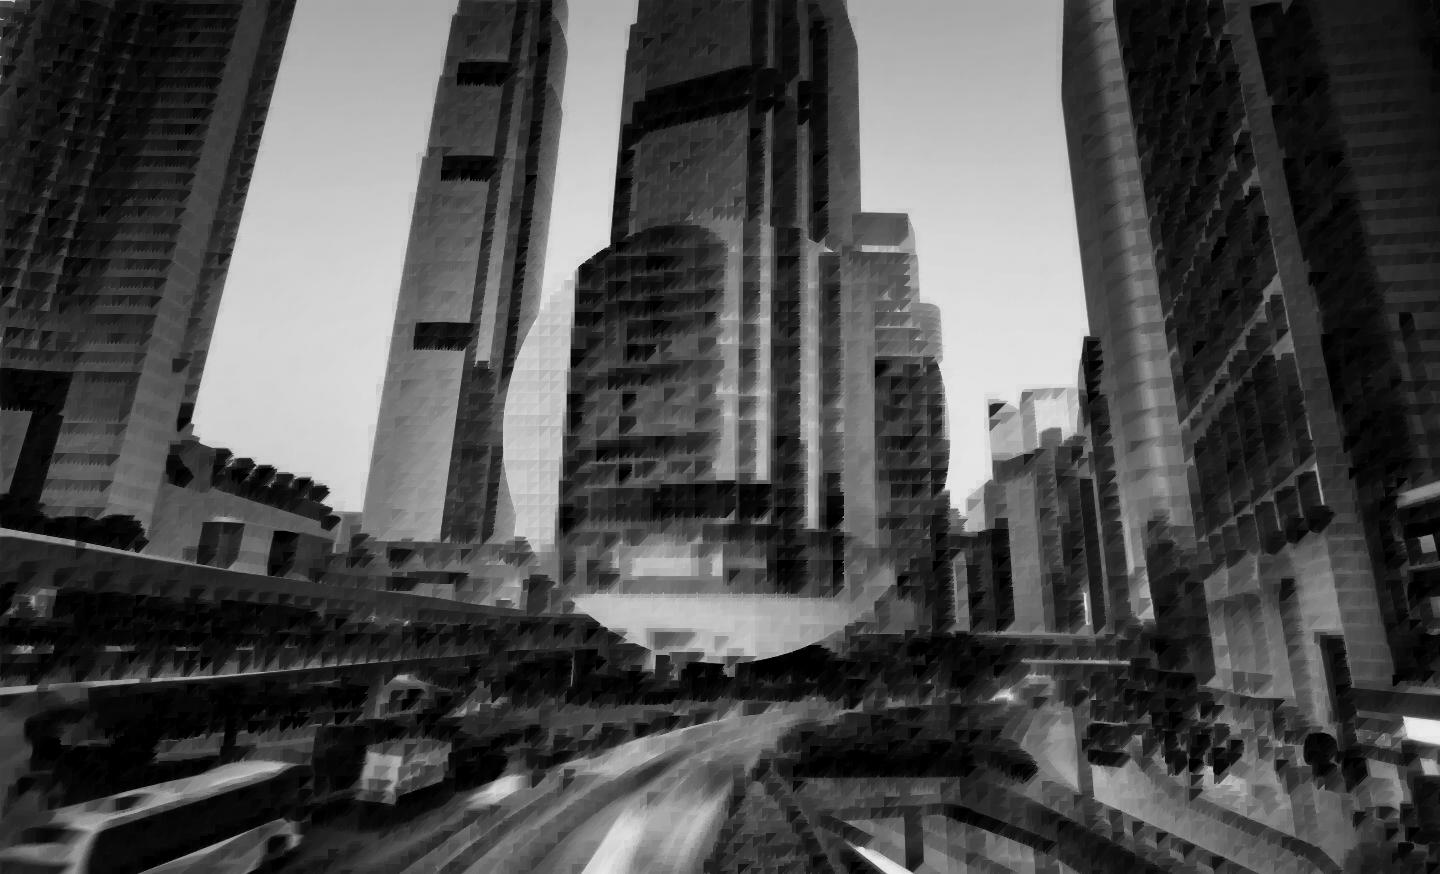
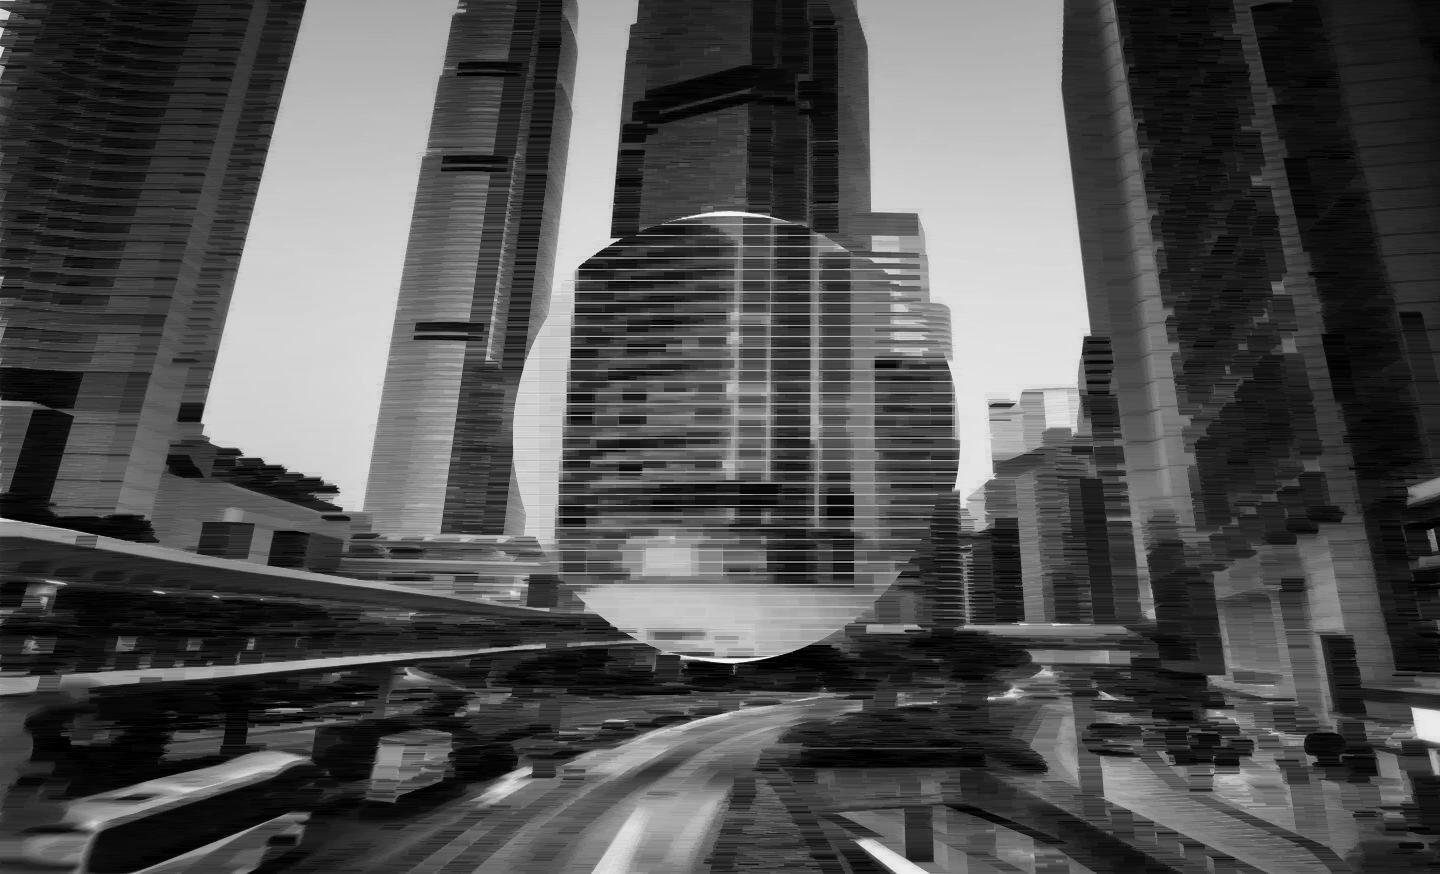
adição de combinação de erosão e dilatação em imagens

diff --git a/ErosaoDilatacao/src/erosaodilatacao/Run.java b/ErosaoDilatacao/src/erosaodilatacao/Run.java
@@ -28,13 +28,15 @@ public class Run {
             Imagem img = new Imagem("/media/rafael/Dados Compartilhados/GitHub/Computacao-Grafica/ErosaoDilatacao/testeCinza.jpg");
             int[][] elemEstr = {
                 {0, 1, 0},
-                {1, 1, 1},
+                {0, 1, 0},
                 {0, 1, 0}
             };
             ElementoEstruturante elemento = new ElementoEstruturante(elemEstr);
             OperacaoED operacao = new OperacaoED(img, elemento);
-            operacao.erosao(10);
+            operacao.erosao(20);
             //operacao.dilatacao(10);
+            //operacao.erosaoDepoisDilatacao(10);
+            //operacao.dilatacaoDepoisErosao(10);
             operacao.gerarImagemSaida("/media/rafael/Dados Compartilhados/GitHub/Computacao-Grafica/ErosaoDilatacao/out.jpg");
         } catch (Exception e) {
             System.err.println("Erro: " + e.toString());

diff --git a/ErosaoDilatacao/src/erosaodilatacao/OperacaoED.java b/ErosaoDilatacao/src/erosaodilatacao/OperacaoED.java
@@ -51,6 +51,16 @@ public class OperacaoED {
         operacaoBase(repeticoes, false);
     }
 
+    public void erosaoDepoisDilatacao(int repeticoes){
+        erosao(repeticoes);
+        dilatacao(repeticoes);
+    }
+    
+    public void dilatacaoDepoisErosao(int repeticoes){       
+        dilatacao(repeticoes);
+        erosao(repeticoes);
+    }
+    
     private void operacaoBase(int repeticoes, boolean erosao) {
         for (int c = 0; c < repeticoes; c++) {
             imgOut = new HashMap<>();
